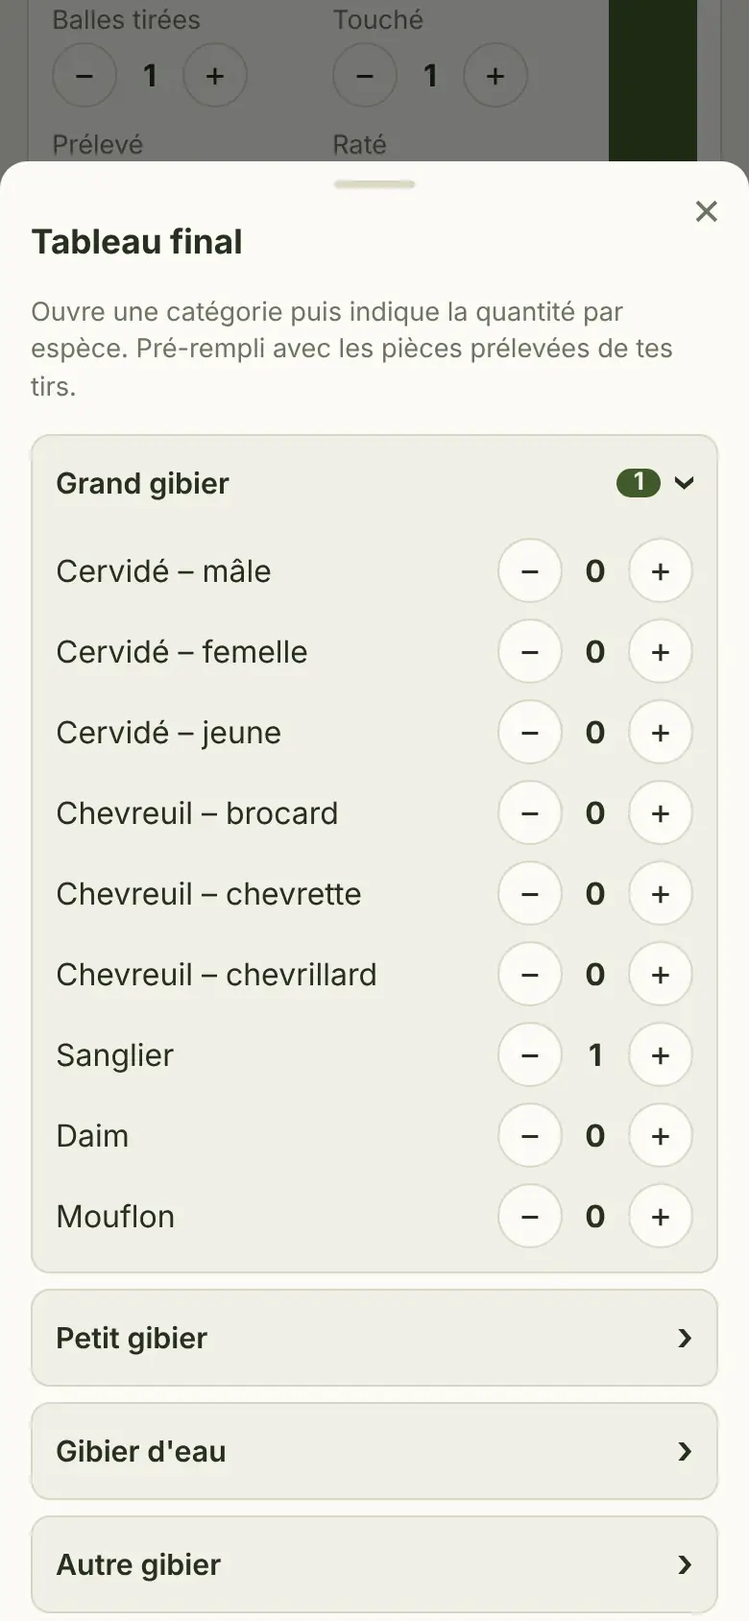
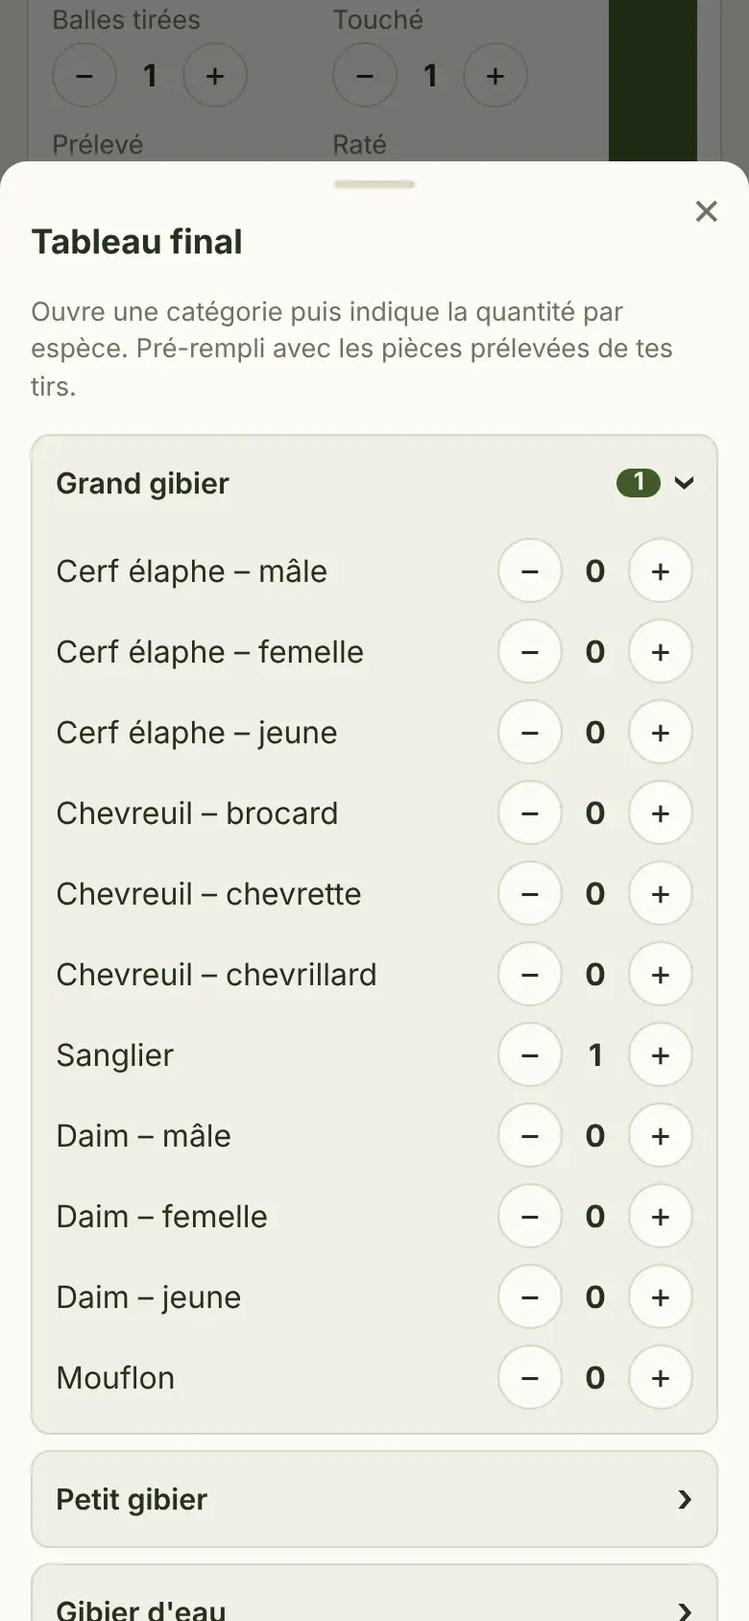
Daim mâle/femelle/jeune, « Cerf élaphe », BANG par famille (précision en fin de journée) – version 2026-10-09g (en attente de validation)
Claude-Session: https://claude.ai/code/session_0186hciEuPyU4mgRMjZZiZQe

diff --git a/index.html b/index.html
@@ -188,19 +188,20 @@ html.in-on,html.in-on body{overflow:hidden}
 <hr><button class="m" id="m-tour" style="font-weight:700;color:var(--acc)">▶ Découvre l'application</button><button class="m" id="m-ouv">Périodes d'ouverture</button><button class="m" id="m-mg">Gérer mes espèces et modes de chasse</button><button class="m" id="m-ar">Mes armes</button><button class="m" id="m-rm">Paramètres de rappels</button>
 <div style="margin-top:auto"><button id="m-fb" style="display:block;width:100%;text-align:center;border:0;border-radius:12px;background:#e8a032;color:#2a1c05;font:800 1rem system-ui;padding:14px 10px;box-shadow:0 3px 10px #0003;margin-bottom:6px">Envoyez-nous un commentaire !</button><button id="m-nl" class="m" style="text-align:center;font-weight:600;color:var(--acc);margin-bottom:4px">Être prévenu de la sortie</button><button id="m-inv" style="display:block;width:100%;text-align:center;border:2px solid var(--acc);border-radius:12px;background:none;color:var(--acc);font:700 .95rem system-ui;padding:11px 10px;margin-bottom:6px">Inviter un ami</button><hr><label>Thème</label><div class="seg" id="th"><button data-th="light">Clair</button><button data-th="dark">Sombre</button><button data-th="auto">Auto</button></div><label>Fréquence de synchronisation</label><select id="sy">
 <option value="manual">Manuelle</option><option value="15">Toutes les 15 minutes</option><option value="60">Toutes les heures</option><option value="day">Une fois par jour</option><option value="wifi">Dès que le réseau revient</option></select>
-<button class="m" id="m-sy">Synchroniser maintenant</button><button class="m" id="m-im">Importer un calendrier</button><button class="m" id="m-ex">Exporter mon calendrier</button><button class="m" id="m-bk">Sauvegarde automatique</button><p style="margin:10px 8px 0;font:.75rem system-ui;color:var(--mut)">ChasseLog bêta web · version 2026-10-09f<br>Météo : KNMI Harmonie (2 km) et ECMWF, via Open-Meteo.com</p></div></aside>
+<button class="m" id="m-sy">Synchroniser maintenant</button><button class="m" id="m-im">Importer un calendrier</button><button class="m" id="m-ex">Exporter mon calendrier</button><button class="m" id="m-bk">Sauvegarde automatique</button><p style="margin:10px 8px 0;font:.75rem system-ui;color:var(--mut)">ChasseLog bêta web · version 2026-10-09g<br>Météo : KNMI Harmonie (2 km) et ECMWF, via Open-Meteo.com</p></div></aside>
 <div id="page"><main id="app"></main></div>
 <script>
-const G={"Grand gibier":["Cervidé","Chevreuil","Sanglier","Daim","Mouflon"],
+const G={"Grand gibier":["Cerf élaphe","Chevreuil","Sanglier","Daim","Mouflon"],
 "Petit gibier":["Lièvre","Faisan","Perdrix grise","Bécasse des bois"],
 "Gibier d'eau":["Canard colvert","Bernache du Canada","Foulque macroule"],
 "Autre gibier":["Lapin de garenne","Pigeon ramier","Renard"]};
-const CLS={"Cervidé":["Mâle","Femelle","Jeune"],"Chevreuil":["Brocard","Chevrette","Chevrillard"]};
-const CL={"Cervidé":{m:"mâle",f:"femelle",j:"jeune"},"Chevreuil":{m:"brocard",f:"chevrette",j:"chevrillard"},"Faisan":{m:"coq",f:"poule"}};
-const XT={"Cervidé":["Cervidé – mâle","Cervidé – femelle","Cervidé – jeune"],"Chevreuil":["Chevreuil – brocard","Chevreuil – chevrette","Chevreuil – chevrillard"],"Faisan":["Faisan – coq","Faisan – poule"]};
+const CLS={"Cerf élaphe":["Mâle","Femelle","Jeune"],"Daim":["Mâle","Femelle","Jeune"],"Chevreuil":["Brocard","Chevrette","Chevrillard"]};
+const CL={"Cerf élaphe":{m:"mâle",f:"femelle",j:"jeune"},"Daim":{m:"mâle",f:"femelle",j:"jeune"},"Chevreuil":{m:"brocard",f:"chevrette",j:"chevrillard"},"Faisan":{m:"coq",f:"poule"}};
+const XT={"Cerf élaphe":["Cerf élaphe – mâle","Cerf élaphe – femelle","Cerf élaphe – jeune"],"Daim":["Daim – mâle","Daim – femelle","Daim – jeune"],"Chevreuil":["Chevreuil – brocard","Chevreuil – chevrette","Chevreuil – chevrillard"],"Faisan":["Faisan – coq","Faisan – poule"]};
+const COR=sp=>sp=="Cerf élaphe"||sp=="Chevreuil";
 const tname=t=>(t.sx&&CL[t.sp]&&CL[t.sp][t.sx])?t.sp+" – "+CL[t.sp][t.sx]:t.sp;
 const sxi=x=>x?`<span class="sxi ${x}">${x=="m"?"♂":"♀"}</span>`:"";
-const extra=t=>{const f=a=>(a||[]).slice(0,t.p).filter(x=>x!==""&&x!=null),w=f(t.w),c=f(t.c);return(t.sp=="Sanglier"&&w.length?" · "+w.join(", ")+" kg":"")+(c.length&&CLS[t.sp]&&t.sx=="m"?" · "+c.join(", ")+" cors":"")};
+const extra=t=>{const f=a=>(a||[]).slice(0,t.p).filter(x=>x!==""&&x!=null),w=f(t.w),c=f(t.c);return(t.sp=="Sanglier"&&w.length?" · "+w.join(", ")+" kg":"")+(c.length&&COR(t.sp)&&t.sx=="m"?" · "+c.join(", ")+" cors":"")};
 const MODES=["Battue","Approche","Affût","Poussée silencieuse","Chasse devant soi","Chasse à la passée","Chasse à la hutte","Chasse au chien d'arrêt","Chasse au terrier","Chasse à courre","Fauconnerie"];
 const MN=["Janvier","Février","Mars","Avril","Mai","Juin","Juillet","Août","Septembre","Octobre","Novembre","Décembre"];
 const UL={b:"Balles",c:"Cartouches"},UNIT=s=>(/^(Cerf|Cervid|Chevreuil|Sanglier|Daim|Mouflon|Renard)/.test(s))?"b":"c";
@@ -383,7 +384,7 @@ let BIP=null;addEventListener("beforeinstallprompt",e=>{e.preventDefault();BIP=e
  $("#in-sk").onclick=()=>{try{sessionStorage.setItem("chasselog-skipinst","1")}catch(e){}o.remove();document.documentElement.classList.remove("in-on")}})();
 
 /* ---------- visite guidée « Découvre l'application » ---------- */
-const TAPS={"mn":[30,26],"ouv":[149.5,255.5],"om":[192.2,102.9],"fab":[344,796],"title":[195,190.8],"ta":[122.6,434.6],"save":[285.5,813],"pst":[195,26],"bang":[195,793],"psok":[330.8,762.3],"sang":[71.7,172.8],"plus":[112,311.2],"ok":[195,792],"cpl":[283.1,101.5],"sx":[81.4,251],"kg":[252,456],"photo":[167,555.3],"tb":[195,696.6],"tabplus":[344,549.2],"fsave":[285.5,813],"share":[195,152.3],"stats":[46,796],"sprev":[248,75.6]};
+const TAPS={"mn":[30,26],"ouv":[149.5,297.5],"om":[192.2,102.9],"fab":[344,796],"title":[195,190.8],"ta":[122.6,434.6],"save":[285.5,813],"pst":[195,26],"bang":[195,793],"psok":[330.8,762.3],"sang":[71.7,172.8],"plus":[112,311.2],"ok":[195,792],"cpl":[283.1,101.5],"sx":[81.4,251],"kg":[252,456],"photo":[167,555.3],"tb":[195,696.6],"tabplus":[344,549.2],"fsave":[285.5,813],"share":[195,152.3],"stats":[46,796],"sprev":[248,75.6]};
 // étapes : [titre, texte, actions]. Actions : ["s",écran] afficher, ["sl",écran] défiler, ["t",bouton] toucher, ["n",note] note jaune, ["w",ms] attendre, ["r",bouton] anneau, ["i",image] image par-dessus
 const TOUR=[
  ["Consulte les périodes d'ouverture","Les dates d'ouverture et de fermeture du gibier en Wallonie, selon ton mode de chasse.",[["s","cal0"],["w",1400],["t","mn"],["s","drawer"],["w",1500],["t","ouv"],["s","ouv0"],["n","Ce qui est ouvert aujourd'hui, avec la frise de la saison"],["w",3200],["t","om"],["s","ouv1"],["n","Choisis ton mode : battue, approche et affût, chasse à vol"],["w",2800],["sl","ouv2"],["w",1500]]],
@@ -470,12 +471,12 @@ function bkCheck(){const B=BKD();if(!B.on||$("#bkb")||$("#mdb")||view!="cal")ret
  d.style.cssText="position:fixed;left:10px;right:10px;top:calc(64px + env(safe-area-inset-top,0px));z-index:45;background:var(--card);color:var(--ink);border:1px solid var(--line);border-radius:14px;padding:12px 14px;display:flex;align-items:center;gap:10px;font:600 .9rem system-ui;box-shadow:0 6px 20px #0005";
  d.innerHTML=`<span style="flex:1">Sauvegarde prévue vers ${SVC[B.svc]}<br><small style="font-weight:400;color:var(--mut)">Dernière : ${B.last?new Date(B.last).toLocaleDateString("fr-BE"):"jamais"}</small></span><button class="p" style="padding:9px 12px">Sauvegarder</button><button aria-label="Plus tard" style="border:0;background:none;color:var(--mut);font-size:1.2rem;padding:4px">✕</button>`;
  document.body.appendChild(d);const[b1,b2]=d.querySelectorAll("button");b1.onclick=async()=>{if(await doBackup(prep))d.remove()};b2.onclick=()=>{B.snooze=Date.now()+864e5;save();d.remove()}}
-const needK=t=>t.sp=="Sanglier"?"w":(CLS[t.sp]&&t.sx=="m")?"c":null,missT=t=>{const k=needK(t);if(!k||!t.p)return false;const a=(t[k]||[]).slice(0,t.p);return a.length<t.p||a.some(v=>v===""||v==null)};
+const needK=t=>t.sp=="Sanglier"?"w":(COR(t.sp)&&t.sx=="m")?"c":null,missT=t=>{if(!t.p)return false;if(CLS[t.sp]&&!t.sx)return true;const k=needK(t);if(!k)return false;const a=(t[k]||[]).slice(0,t.p);return a.length<t.p||a.some(v=>v===""||v==null)};
 function missingDet(){const td=iso(new Date()),now=new Date(),sn=S.mdSn||{};return evs().filter(e=>{if(!e.fiche||e.nh||(sn[e.id]||0)>Date.now())return false;const age=(Date.parse(td)-Date.parse(e.date))/864e5;
  if(age<0||age>14||(age==0&&now.getHours()<18))return false;return e.fiche.tirs.some(missT)}).sort((a,b)=>a.date<b.date?1:-1)}
-function mdCheck(){if(view!="cal"||$("#mdb")||$("#bkb"))return;const e=missingDet()[0];if(!e)return;const k=e.fiche.tirs.filter(missT).map(needK);
+function mdCheck(){if(view!="cal"||$("#mdb")||$("#bkb"))return;const e=missingDet()[0];if(!e)return;const k=e.fiche.tirs.filter(missT).map(t=>CLS[t.sp]&&!t.sx?"x":needK(t));
  const d=document.createElement("div");d.id="mdb";d.style.cssText="position:fixed;left:10px;right:10px;top:calc(64px + env(safe-area-inset-top,0px));z-index:45;background:#e8a032;color:#2a1c05;border-radius:14px;padding:12px 14px;display:flex;align-items:center;gap:10px;font:600 .9rem system-ui;box-shadow:0 6px 20px #0005";
- d.innerHTML=`<span style="flex:1">À compléter : ${k.includes("w")&&k.includes("c")?"poids et cors":k.includes("w")?"poids du sanglier":"nombre de cors"}<br><small style="font-weight:500">${esc(e.title)} · ${e.date.split("-").reverse().join("/")}</small></span><button style="border:0;border-radius:10px;background:#2a1c05;color:#fff;font:700 .9rem system-ui;padding:9px 12px">Compléter</button><button aria-label="Plus tard" style="border:0;background:none;color:#2a1c05;font-size:1.2rem;padding:4px">✕</button>`;
+ d.innerHTML=`<span style="flex:1">À compléter : ${[k.includes("x")?"mâle, femelle ou jeune":"",k.includes("w")?"poids du sanglier":"",k.includes("c")?"nombre de cors":""].filter(Boolean).join(" · ")}<br><small style="font-weight:500">${esc(e.title)} · ${e.date.split("-").reverse().join("/")}</small></span><button style="border:0;border-radius:10px;background:#2a1c05;color:#fff;font:700 .9rem system-ui;padding:9px 12px">Compléter</button><button aria-label="Plus tard" style="border:0;background:none;color:#2a1c05;font-size:1.2rem;padding:4px">✕</button>`;
  document.body.appendChild(d);const[b1,b2]=d.querySelectorAll("button");
  b1.onclick=()=>{d.remove();openFiche(e.id);fd.tirs.forEach(t=>{if(missT(t))t.ok=false});render()};
  b2.onclick=()=>{S.mdSn=S.mdSn||{};S.mdSn[e.id]=Date.now()+864e5;save();d.remove()}}
@@ -561,13 +562,13 @@ const curPoste=e=>e&&e.postes&&e.postes.length?e.postes[e.postes.length-1].n:nul
 const todayPoste=()=>{let best=null;todayEvs().forEach(e=>(e.postes||[]).forEach((x,i)=>{const k=x.ts||i;if(!best||k>=best.k)best={k,n:x.n}}));return best?best.n:null};
 function quickShot(id){fe=id;fd=JSON.parse(JSON.stringify(S.ev[id].fiche||{tirs:[],photos:[],notes:"",tab:null,tabPhotos:[]}));fd.tabPhotos=fd.tabPhotos||[];fdClean=fkey();pickCtx={mode:"quick"};go("pick")}
 function commonSp(){const vis=Object.values(visSp()).flat(),cnt={};evs().forEach(e=>e.fiche&&e.fiche.tirs.forEach(t=>cnt[t.sp]=(cnt[t.sp]||0)+1));
- const used=Object.keys(cnt).filter(x=>vis.includes(x)).sort((a,b)=>cnt[b]-cnt[a]),def=["Sanglier","Chevreuil","Cervidé","Faisan","Lièvre","Canard colvert","Renard","Pigeon ramier","Bécasse des bois"].filter(x=>vis.includes(x));
+ const used=Object.keys(cnt).filter(x=>vis.includes(x)).sort((a,b)=>cnt[b]-cnt[a]),def=["Sanglier","Chevreuil","Cerf élaphe","Faisan","Lièvre","Canard colvert","Renard","Pigeon ramier","Bécasse des bois"].filter(x=>vis.includes(x));
  return[...new Set([...used,...def])].slice(0,6)}
 function rPick(){const e=S.ev[fe],tile=x=>`<button class="pk" data-pk="${esc(x)}">${sil(x,64)||'<span style="font-size:1.8rem;line-height:48px">🎯</span>'}<span>${esc(x)}</span></button>`;
  $("#app").innerHTML=`${BKB}<h1 style="margin-top:4px;padding-left:48px">Quel gibier ?</h1><p class="mut sans" style="margin-top:-6px;padding-left:48px">${e?esc(e.title):""}</p>
  <h2>Les plus courants</h2><div class="pkg">${commonSp().map(tile).join("")}</div>${Object.entries(visSp()).map(([g,a])=>`<h2>${esc(g)}</h2><div class="pkg">${a.map(tile).join("")}</div>`).join("")}<div style="height:40px"></div>`;
  $("#bk2").onclick=()=>{if(pickCtx&&pickCtx.mode=="quick"){pickCtx=null;go("cal")}else go("fiche")};
- document.querySelectorAll("[data-pk]").forEach(b=>b.onclick=()=>{const sp=b.dataset.pk,t={id:"k"+Date.now(),sp,u:UNIT(sp),n:0,h:0,p:0,m:0,loc:null,ok:false,sx:CLS[sp]?"m":null,w:[],c:[],gun:gunOf(S.lastGun)?S.lastGun:null,poste:curPoste(S.ev[fe])};
+ document.querySelectorAll("[data-pk]").forEach(b=>b.onclick=()=>{const sp=b.dataset.pk,t={id:"k"+Date.now(),sp,u:UNIT(sp),n:0,h:0,p:0,m:0,loc:null,ok:false,sx:null,w:[],c:[],gun:gunOf(S.lastGun)?S.lastGun:null,poste:curPoste(S.ev[fe])};
   fd.tirs.unshift(t);if(pickCtx&&pickCtx.mode=="quick")quickTid=t.id;pickCtx=null;go("fiche")})}
 function posteModal(id){const e=S.ev[id];e.postes=e.postes||[];
  const draw=()=>{modal(`<h2>Numéro de poste</h2><p class="mut sans" style="margin-top:-4px">${esc(e.title)}</p>
@@ -612,7 +613,7 @@ async function shareDay(id){const e=S.ev[id],f=e.fiche,a=agg([e]),W=1080,c=docum
 const CC="Uniquement sur les territoires des conseils cynégétiques agréés.";
 const OUV=[
  ["Grand gibier",[
-  {sp:"Cerf",img:"Cervidé – mâle",n:"Soumis au plan de tir.",rows:[
+  {sp:"Cerf",img:"Cerf élaphe – mâle",n:"Soumis au plan de tir.",rows:[
    {l:"Grands cerfs boisés",aa:[["09-21","12-31"]],tir:[["10-01","12-31"]],n:"Uniquement conseils cynégétiques agréés et Chasse royale de Ciergnon. Interdit ailleurs."},
    {l:"Petits cerfs",aa:[["09-21","01-31"]],tir:[["10-01","01-31"]],n:"Uniquement conseils cynégétiques agréés et Chasse royale de Ciergnon. Interdit ailleurs."},
    {l:"Biches, bichettes et faons",aa:[["09-21","01-31"]],tir:[["10-01","01-31"]]}]},
@@ -752,7 +753,7 @@ function rArmes(){S.guns=S.guns||[];const cat=ag.type?ARMES[ag.type]:null,brandO
 /* ---------- rappels ---------- */
 const RM=()=>{if(!S.rem)S.rem={};const r=S.rem;if(r.sleep===undefined)r.sleep=false;if(!r.time)r.time="20:00";if(r.auto===undefined)r.auto=false;return r};
 const dueOf=e=>new Date(e.date+"T"+e.rem+":00").getTime();
-const APP_V="2026-10-09f",APP_URL="https://chasselog-coder.github.io/ChasseLog/";
+const APP_V="2026-10-09g",APP_URL="https://chasselog-coder.github.io/ChasseLog/";
 const REM_ON=false;
 async function syncRem(){if(!REM_ON)return;try{const RMs=RM(),now=Date.now();let old=[];try{old=JSON.parse(await DB.get("_rem")||"[]")}catch(x){}const fired=new Set(old.filter(x=>x.fired).map(x=>x.id+"|"+x.due));
  const list=RMs.sleep?[]:evs().filter(e=>e.rem&&!e.fiche&&!e.remDone&&now-dueOf(e)<36*36e5).map(e=>({id:e.id,title:e.title,date:e.date,due:dueOf(e),fired:fired.has(e.id+"|"+dueOf(e))}));await DB.put("_rem",JSON.stringify(list));
@@ -794,7 +795,7 @@ $("#m-im").onclick=()=>{shut();modal(`<h2>Importer un calendrier</h2><p class="m
 $("#m-ex").onclick=()=>{shut();modal(`<h2>Exporter mon calendrier</h2><button class="p li" id="x-i">Calendrier (.ics)</button><button class="s li" id="x-j">Sauvegarde complète (.json, avec fiches et photos)</button>`);
  $("#x-i").onclick=()=>{const v=evs().map(e=>["BEGIN:VEVENT","UID:"+e.id+"@carnet","DTSTART;VALUE=DATE:"+e.date.replace(/-/g,""),"SUMMARY:"+e.title.replace(/[,;]/g," "),"LOCATION:"+(e.place.name||"").replace(/[,;]/g," ")].concat(e.place.lat!=null?["GEO:"+e.place.lat+";"+e.place.lng]:[],["END:VEVENT"]).join("\r\n"));dl("chasselog.ics","text/calendar","BEGIN:VCALENDAR\r\nVERSION:2.0\r\nPRODID:-//Carnet de chasse//FR\r\n"+v.join("\r\n")+"\r\nEND:VCALENDAR");closeM()};
  $("#x-j").onclick=async()=>{dl("chasselog.json","application/json",await exportJSON());closeM()}};
-$("#m-mg").onclick=()=>{shut();const ck=(n,h,k)=>`<label class="ck"><input type="checkbox" data-${k}="${esc(n)}" ${S[h].includes(n)?"":"checked"}>${esc(n=="Cervidé"?"Cervidés":n)}</label>`;
+$("#m-mg").onclick=()=>{shut();const ck=(n,h,k)=>`<label class="ck"><input type="checkbox" data-${k}="${esc(n)}" ${S[h].includes(n)?"":"checked"}>${esc(n)}</label>`;
  modal(`<h2>Mes modes de chasse et espèces</h2><p class="mut sans">Décoche ce que tu ne chasses pas : ces choix disparaissent des listes d'encodage.</p><h3>Modes de chasse</h3>${MODES.map(m=>ck(m,"hm","m")).join("")}
  ${Object.entries(Object.assign({},G,S.custom.length?{"Mes espèces":S.custom}:{})).map(([g,a])=>`<h3>${g}</h3>${a.map(s=>ck(s,"hs","s")).join("")}`).join("")}
  <h3>Ajouter une espèce</h3><div class="row"><input id="ns" placeholder="Nom de l'espèce"><button class="s" id="na" style="flex:0 0 90px">Ajouter</button></div>`);
@@ -966,13 +967,13 @@ function backFiche(){if(quickTid){modal(`<h2>Abandonner ce tir ?</h2><p class="s
  $("#q-y").onclick=()=>{closeM();saveFiche()};$("#q-n").onclick=()=>{closeM();go(to)}}
 function rFiche(){const e=S.ev[fe],all=visSp(),nt=fd.tab?Object.values(fd.tab).reduce((a,b)=>a+b,0):0,Q=quickTid&&fd.tirs.find(t=>t.id==quickTid);
  if(quickTid&&!Q){quickTid=null;setTimeout(()=>go("cal"));return}
- const detail=t=>{const k=t.sp=="Sanglier"?"w":(CLS[t.sp]&&t.sx=="m")?"c":null;if(!k||!t.p)return"";t[k]=t[k]||[];
+ const detail=t=>{const k=t.sp=="Sanglier"?"w":(COR(t.sp)&&t.sx=="m")?"c":null;if(!k||!t.p)return"";t[k]=t[k]||[];
   return `<div class="det"><span class="mut sans">${k=="w"?"Poids (kg)":"Nombre de cors"}</span>${Array.from({length:t.p},(_,i)=>`<label class="dl sans"><span>${k=="w"?"Sanglier":"Mâle"} ${i+1}</span><input type="number" min="0" step="${k=="w"?"0.5":"1"}" inputmode="${k=="w"?"decimal":"numeric"}" data-dk="${t.id}|${k}|${i}" value="${esc(t[k][i]??"")}" placeholder="${k=="w"?"kg":"cors"}"></label>`).join("")}</div>`};
  const card=t=>{const nm=tname(t),isCl=!!CLS[t.sp],qk=quickTid==t.id;
   if(t.ok!==false)return `<div class="card cd sans" data-o="${t.id}">${sil(nm,44)}<div style="flex:1;min-width:0"><b>${esc(nm)}</b> ${isCl?"":sxi(t.sx)}<br><span class="mut">Prélevé ${t.p} · Raté ${t.m} · Touché ${t.h} · ${t.n} ${UL[t.u].toLowerCase()}${esc(extra(t))}</span></div><span class="vk" aria-hidden="true">✓</span></div>`;
   const pick=isCl?`<div class="seg" style="margin-top:8px">${CLS[t.sp].map((l,i)=>`<button data-sx="${t.id}:${"mfj"[i]}" class="${t.sx=="mfj"[i]?"on":""}">${l}</button>`).join("")}</div>`:`<div class="row sans" style="gap:6px;margin-top:8px;justify-content:flex-start"><span class="mut" style="flex:0 0 auto">Sexe</span><button class="sx m${t.sx=="m"?" on":""}" data-sx="${t.id}:m" aria-label="Mâle" style="flex:0 0 auto">♂</button><button class="sx f${t.sx=="f"?" on":""}" data-sx="${t.id}:f" aria-label="Femelle" style="flex:0 0 auto">♀</button></div>`;
   return `<div class="card tc"><div class="tcm"><div class="row sans" style="gap:8px"><span style="flex:0 0 auto">${sil(nm,40)}</span><b>${esc(t.sp)}</b><button class="s" data-u="${t.id}" style="flex:0 0 auto">${UL[t.u]} ⇄</button><button class="d" data-x="${t.id}" style="flex:0 0 auto">${qk?"Annuler":"Retirer"}</button></div>${pick}
-  <div class="g4">${[["n",UL[t.u]+" tirées"],["h","Touché"],["p","Prélevé"],["m","Raté"]].map(([k,lb])=>`<div><span class="mut sans">${lb}</span><div class="st"><button data-t="${t.id}" data-k="${k}" data-n="-1">−</button><b>${t[k]}</b><button data-t="${t.id}" data-k="${k}" data-n="1">+</button></div></div>`).join("")}</div>${qk?(t.p&&(t.sp=="Sanglier"||(CLS[t.sp]&&t.sx=="m"))?`<p class="mut sans" style="margin:8px 0 0;font-size:.85rem">${t.sp=="Sanglier"?"Le poids":"Le nombre de cors"} se complète plus tard dans la fiche.</p>`:""):detail(t)}
+  <div class="g4">${[["n",UL[t.u]+" tirées"],["h","Touché"],["p","Prélevé"],["m","Raté"]].map(([k,lb])=>`<div><span class="mut sans">${lb}</span><div class="st"><button data-t="${t.id}" data-k="${k}" data-n="-1">−</button><b>${t[k]}</b><button data-t="${t.id}" data-k="${k}" data-n="1">+</button></div></div>`).join("")}</div>${qk?(t.p&&(t.sp=="Sanglier"||(COR(t.sp)&&t.sx=="m"))?`<p class="mut sans" style="margin:8px 0 0;font-size:.85rem">${t.sp=="Sanglier"?"Le poids":"Le nombre de cors"} se complète plus tard dans la fiche.</p>`:""):detail(t)}
   ${(S.guns||[]).length?`<label class="sans" style="display:flex;align-items:center;gap:8px;margin-top:10px">${gunIc(16,"carabine")}<select data-gn="${t.id}" style="flex:1;margin:0"><option value="">Arme utilisée…</option>${S.guns.map(g=>`<option value="${g.id}" ${t.gun==g.id?"selected":""}>${esc(gl(g))}</option>`).join("")}</select></label>`:`<p class="mut sans" style="margin:10px 0 0">${gunIc(14)} Ajoute tes armes via le menu pour les choisir ici.</p>`}${qk?"":`<div class="ph">${(t.ph||[]).map((x,i)=>`<div><img data-pid="${x}" alt="Photo de l'animal"><button class="d" data-rtp="${t.id}|${i}">Retirer</button></div>`).join("")}</div><label class="s sans" style="display:block;text-align:center;border:1px solid var(--line);border-radius:8px;padding:9px;margin-top:8px;color:var(--ink)">📷 Photo de l'animal<input type="file" accept="image/*" data-tph="${t.id}" hidden></label>`}
   <button class="s sans" data-gps="${t.id}" style="width:100%;margin-top:10px;text-align:left;${t.loc&&t.loc.gps?"border-color:var(--acc);color:var(--acc);font-weight:600":""}">📍 ${t.loc&&t.loc.gps?`Position du tir enregistrée ${t.loc.acc!=null?`(± ${Math.round(t.loc.acc)} m)`:"(ajustée sur la carte)"} · modifier`:"Enregistrer ma position (lieu du tir)"}</button>
   ${qk?"":`<button class="s sans" data-l="${t.id}" style="width:100%;margin-top:6px;text-align:left">🗺 ${t.loc?(t.loc.gps?"Lieu du tir":"Lieu du tir")+" : "+esc(lieu(t.loc)):"Lieu de RDV : "+esc(lieu(e.place))} · choisir sur la carte</button>`}</div><button class="vb" data-v="${t.id}" aria-label="Valider ce tir">✓</button></div>`};
@@ -1053,14 +1054,15 @@ const renard=`<g>${legs([17,21,37,41],34,44.5,"bk",2.8)}<ellipse cx="10" cy="31"
 const rongeur=(c,s)=>`<g transform="translate(32 44.5) scale(${s}) translate(-32 -44.5)"><path d="M11 37Q2 39 3 31Q4 27 8 29" fill="none" stroke="#33281e" stroke-width="2" stroke-linecap="round"/>${legs([20,40],38,44.5,"dk",4)}<ellipse cx="27" cy="33" rx="17.5" ry="10" ${Fl(c)}/><ellipse cx="45" cy="32" rx="8" ry="6" ${Fl(c)}/><circle cx="52.5" cy="33.5" r="1.7" fill="#1b1410"/><rect x="50.5" y="35.5" width="2.4" height="3" rx=".8" fill="#f09030"/><circle cx="43" cy="26.5" r="2.2" ${Fl(c)}/>${Ey(48.5,29.5,.9)}<path d="M52 33L58 31M52 34.5L58 35" stroke="#f5f0e4" stroke-width=".5"/></g>`;
 const ART={cerf:deer({c:"br",a:2,s:1}),biche:deer({c:"br",s:.93}),bichette:deer({c:"br",s:.8}),faon:deer({c:"br",s:.62,sp:1}),brocard:deer({c:"tn",a:1,r:1,s:.78}),chevrette:deer({c:"tn",r:1,s:.74}),chevrillard:deer({c:"tn",r:1,s:.55,sp:1}),daim:deer({c:"tn",a:3,sp:1,s:.88}),mouflon,sanglier:boar,lievre:hare(10,1),lapin:hare(5.5,.78),fcoq,fpoule,perdrix,becasse,pigeon,colvert:duck("gn","gy","br","bl"),chipeau:duck("g2","gy","bk","wh"),siffleur:duck("rs","gy","pk","gy"),souchet:duck("gn","rs","wh","bl"),pilet:duck("br","gy","wh","gn"),sarcelle:duck("rs","gy","tn","gn"),fuligule:duck("rs","bk","gy","gy"),oie,corbeau,pie,geai,renard,ragondin:rongeur("dk",1),rat:rongeur("bk",.7)};
 function silType(s){const n=s.toLowerCase();
- if(n=="cervidé"||n=="cervide")return "cervide";if(n=="chevreuil")return "chevreuil";
+ if(n=="cerf élaphe"||n=="cervidé"||n=="cervide")return "cervide";
+ if(n.startsWith("daim"))return /femelle|daine/.test(n)?"daimf":/jeune|faon/.test(n)?"daimj":/mâle|male/.test(n)?"daimm":"daim";if(n=="chevreuil")return "chevreuil";
  if(n.startsWith("mouflon"))return /femelle|brebis/.test(n)?"mouflonf":/agneau|jeune/.test(n)?"agneau":"mouflon";
  if(n.startsWith("cerf")||n.startsWith("cervid"))return /bichette/.test(n)?"bichette":/femelle|biche/.test(n)?"biche":/jeune|faon/.test(n)?"faon":"cerf";
  if(n.startsWith("chevreuil"))return /chevrette|femelle/.test(n)?"chevrette":/chevrillard|jeune/.test(n)?"chevrillard":"brocard";
  if(n.startsWith("faisan"))return /poule/.test(n)?"fpoule":"fcoq";
  const m=[["sanglier","sanglier"],["daim","daim"],["mouflon","mouflon"],["lièvre","lievre"],["lapin","lapin"],["perdrix","perdrix"],["bécasse","becasse"],["pigeon","pigeon"],["canard colvert","colvert"],["chipeau","chipeau"],["siffleur","siffleur"],["souchet","souchet"],["pilet","pilet"],["sarcelle","sarcelle"],["fuligule","fuligule"],["oie","oie"],["bernache","oie"],["ouette","oie"],["renard","renard"],["foulque","foulque"],["corneille","corbeau"],["corbeau","corbeau"],["pie ","pie"],["geai","geai"],["ragondin","ragondin"],["rat musqué","rat"]];
  for(const[k,v]of m)if(n.includes(k))return v;return null}
-const PIC=new Set("cerf biche faon bichette brocard chevrette chevrillard cervide chevreuil daim mouflon mouflonf agneau sanglier lievre lapin fcoq fpoule perdrix becasse oie colvert foulque pigeon renard".split(" "));
+const PIC=new Set("cerf biche faon bichette brocard chevrette chevrillard cervide chevreuil daim daimm daimf daimj mouflon mouflonf agneau sanglier lievre lapin fcoq fpoule perdrix becasse oie colvert foulque pigeon renard".split(" "));
 const sil=(s,w=56)=>{const t=silType(s);if(t&&PIC.has(t))return `<img src="animals/${t}.webp" width="${w}" height="${Math.round(w*.75)}" alt="" aria-hidden="true" decoding="async" style="flex:0 0 auto;object-fit:contain;width:${w}px;height:${Math.round(w*.75)}px">`;if(t=="foulque")return sil("Fuligule",w);return t?`<svg viewBox="0 0 64 48" width="${w}" height="${Math.round(w*.75)}" aria-hidden="true" style="flex:0 0 auto">${SH}${ART[t]}</svg>`:""};
 const ICO={b:'<svg viewBox="0 0 32 32"><g transform="translate(1.6 1.8) scale(.9) rotate(18 16 16)"><path d="M16 2C20 6 22.5 11 22.5 16.5V22H9.5V16.5C9.5 11 12 6 16 2Z" fill="url(#lcu)"/><path d="M12 9Q13 6 15.5 4" stroke="#fff" stroke-width="1.2" fill="none" stroke-linecap="round" opacity=".55"/><rect x="9.5" y="22" width="13" height="6" rx="1" fill="url(#lbr)"/><rect x="9.5" y="22" width="13" height="1.2" fill="#5a3a10" opacity=".5"/><rect x="8.6" y="27.5" width="14.8" height="2.2" rx="1" fill="url(#lbr)"/></g></svg>',
 c:'<svg viewBox="0 0 32 32"><g transform="translate(1.6 1.8) scale(.9) rotate(18 16 16)"><rect x="9" y="3" width="14" height="19" rx="2.2" fill="url(#lsh)"/><path d="M9 4.8Q16 7 23 4.8" stroke="#4a0808" stroke-width="1.2" fill="none" opacity=".6"/><path d="M12 7V20" stroke="#fff" stroke-width="1.1" opacity=".35" stroke-linecap="round"/><rect x="8.4" y="21" width="15.2" height="7" rx="1.4" fill="url(#lbr)"/><rect x="8" y="27.4" width="16" height="2.4" rx="1.1" fill="url(#lbr)"/><circle cx="16" cy="24.5" r="1.6" fill="#7a5714"/></g></svg>',
@@ -1086,7 +1088,7 @@ function rSum(){const e=S.ev[fe],f=e.fiche,a=agg([e]),cnt={};
  $("#bk").onclick=()=>go(vst.length?vst[vst.length-1]:"cal");$("#md").onclick=()=>openFiche(fe);
  if($("#sh-ph"))$("#sh-ph").onclick=()=>modal(`<h2>Photos de la journée</h2><div class="ph">${f.photos.map(p=>`<img data-pid="${p}" alt="Photo de la journée">`).join("")}</div>`);
  document.querySelectorAll("[data-rs]").forEach(b=>b.onclick=()=>{const k=b.dataset.rs;let ts=f.tirs.filter(t=>t.p&&(tname(t)==k||k.startsWith(t.sp)));
-  const one=t=>{const u=UL[t.u].toLowerCase(),p=t.n?Math.round(t.h/t.n*100):0,ex=t.sp=="Sanglier"?(t.w||[]).slice(0,t.p).filter(x=>x!==""&&x!=null).map(x=>x+" kg"):(CLS[t.sp]&&t.sx=="m")?(t.c||[]).slice(0,t.p).filter(x=>x!==""&&x!=null).map(x=>x+" cors"):[];
+  const one=t=>{const u=UL[t.u].toLowerCase(),p=t.n?Math.round(t.h/t.n*100):0,ex=t.sp=="Sanglier"?(t.w||[]).slice(0,t.p).filter(x=>x!==""&&x!=null).map(x=>x+" kg"):(COR(t.sp)&&t.sx=="m")?(t.c||[]).slice(0,t.p).filter(x=>x!==""&&x!=null).map(x=>x+" cors"):[];
    return `<div class="card sans"><div class="row" style="gap:10px;justify-content:flex-start">${sil(tname(t),48)}<div><b>${esc(tname(t))}</b> ${CLS[t.sp]?"":sxi(t.sx)}</div></div>
    <div class="sr"><span class="lb">${ic(t.u,26)}${UL[t.u]} tirées</span><b>${t.n}</b></div><div class="sr"><span class="lb">${UL[t.u]} ayant touché</span><b>${t.h}</b></div>
    ${t.n?`<div class="sr"><span class="lb">${ic("t",26)}Précision</span><span style="display:flex;align-items:center;gap:8px">${gauge(p)}<b>${p}%</b></span></div>`:""}
@@ -1142,7 +1144,7 @@ function rStats(){const withF=evs().filter(e=>e.fiche),seasons=[...new Set([seas
  a.T.forEach(t=>{if(t.p){const k=tname(t);bySp[k]=(bySp[k]||0)+t.p}});
  L.forEach(e=>{const k=place(e);bySec[k]=(bySec[k]||0)+pt(e);cnt[k]=(cnt[k]||0)+1});
  withF.forEach(e=>{const k=season(e.date);bySea[k]=(bySea[k]||0)+pt(e)});
- const mx=(k,sp)=>{let m=0;a.T.forEach(t=>{if(t.sp==sp&&(k=="w"||t.sx=="m"))(t[k]||[]).slice(0,t.p).forEach(v=>{if(+v>m)m=+v})});return m},hw=mx("w","Sanglier"),hc=mx("c","Cervidé"),hb=mx("c","Chevreuil");
+ const mx=(k,sp)=>{let m=0;a.T.forEach(t=>{if(t.sp==sp&&(k=="w"||t.sx=="m"))(t[k]||[]).slice(0,t.p).forEach(v=>{if(+v>m)m=+v})});return m},hw=mx("w","Sanglier"),hc=mx("c","Cerf élaphe"),hb=mx("c","Chevreuil");
  const gb=(n,h,u,lab)=>n?`<div class="sc2"><div class="lb" style="justify-content:center">${ic(u,26)}<span style="font:600 .9rem system-ui;color:var(--ink)">${lab}</span></div>${gauge(Math.round(h/n*100)).replace('width="60" height="36"','width="110" height="66"')}<b>${Math.round(h/n*100)}%</b><span>${n} tirées · ${h} touchées</span></div>`:"";
  const GS={};a.T.forEach(t=>{const k=gunOf(t.gun)?t.gun:"_";const g=GS[k]=GS[k]||{n:0,h:0,p:0,m:0,u:{},days:new Set()};g.n+=t.n;g.h+=t.h;g.p+=t.p;g.m+=t.m;g.u[t.u]=1});
  L.forEach(e=>e.fiche.tirs.forEach(t=>{const k=gunOf(t.gun)?t.gun:"_";if(GS[k]&&(t.n||t.p||t.m))GS[k].days.add(e.id)}));
@@ -1160,7 +1162,7 @@ function rStats(){const withF=evs().filter(e=>e.fiche),seasons=[...new Set([seas
  <div class="kp" style="margin-top:8px;grid-template-columns:1fr 1fr"><button class="sc2" data-kp="p"><b>${a.p}</b><span>prélèvements</span><i class="chev">›</i></button><button class="sc2" data-kp="r"><b>${a.m}</b><span>ratés</span><i class="chev">›</i></button></div>
  ${a.bn||a.cn?`<h2>Précision</h2><div class="pg2">${gb(a.bn,a.bh,"b","Balles")}${gb(a.cn,a.ch,"c","Cartouches")}</div>`:""}
  ${Object.keys(bySp).length?`<h2 id="tbc">Tableau de chasse</h2><div class="tls">${Object.entries(bySp).sort((x,y)=>y[1]-x[1]).map(([k,v])=>`<button class="tl" data-sp="${esc(k)}"><div class="sv">${sil(k,64)}<b>× ${v}</b></div>${esc(k)}</button>`).join("")}</div><p class="mut sans">Touche une espèce pour voir le détail.</p>`:""}
- ${hw||hc||hb?`<h2>Records</h2><div class="kp">${hw?`<div class="sc2">${sil("Sanglier",56)}<b>${hw} kg</b><span>plus lourd sanglier</span></div>`:""}${hc?`<div class="sc2">${sil("Cervidé – mâle",56)}<b>${hc}</b><span>cors max (cervidé)</span></div>`:""}${hb?`<div class="sc2">${sil("Chevreuil – brocard",56)}<b>${hb}</b><span>cors max (brocard)</span></div>`:""}</div>`:""}
+ ${hw||hc||hb?`<h2>Records</h2><div class="kp">${hw?`<div class="sc2">${sil("Sanglier",56)}<b>${hw} kg</b><span>plus lourd sanglier</span></div>`:""}${hc?`<div class="sc2">${sil("Cerf élaphe – mâle",56)}<b>${hc}</b><span>cors max (cerf)</span></div>`:""}${hb?`<div class="sc2">${sil("Chevreuil – brocard",56)}<b>${hb}</b><span>cors max (brocard)</span></div>`:""}</div>`:""}
  ${lucky?`<h2>Poste porte-bonheur</h2><div class="card sans" style="text-align:center">Ton numéro de poste porte-bonheur est le <b style="font-size:1.5rem;color:var(--acc)">${esc(lucky[0])}</b><br><span class="mut">${lucky[1].p} prélèvement${lucky[1].p>1?"s":""} · ${lucky[1].d.size} journée${lucky[1].d.size>1?"s":""} à ce poste</span></div>`:""}
  ${gunStats?`<h2>Par arme</h2>${gunStats}`:""}
  ${shotSec(L)}
@@ -1175,17 +1177,17 @@ function rStats(){const withF=evs().filter(e=>e.fiche),seasons=[...new Set([seas
  document.querySelectorAll("[data-sea]").forEach(b=>b.onclick=()=>{seasonF=seasonF==b.dataset.sea?"all":b.dataset.sea;render()});
  document.querySelectorAll("[data-sp]").forEach(b=>b.onclick=()=>{const k=b.dataset.sp,rows=[],ws=[],cs=[];let tot=0;
   L.forEach(e=>{const ts=e.fiche.tirs.filter(t=>tname(t)==k&&t.p);if(!ts.length)return;const q=ts.reduce((x,t)=>x+t.p,0);tot+=q;
-   ts.forEach(t=>{(t.w||[]).slice(0,t.p).forEach(v=>{if(v!==""&&v!=null)ws.push(+v)});if(CLS[t.sp]&&t.sx=="m")(t.c||[]).slice(0,t.p).forEach(v=>{if(v!==""&&v!=null)cs.push(+v)})});
+   ts.forEach(t=>{(t.w||[]).slice(0,t.p).forEach(v=>{if(v!==""&&v!=null)ws.push(+v)});if(COR(t.sp)&&t.sx=="m")(t.c||[]).slice(0,t.p).forEach(v=>{if(v!==""&&v!=null)cs.push(+v)})});
    rows.push({e,txt:q+" prélèvement"+(q>1?"s":"")+esc(ts.map(extra).join(""))})});
   const av=x=>(x.reduce((u,v)=>u+v,0)/x.length).toFixed(1);
   drill(`${sil(k,56)}<span>${esc(k)}</span>`,`<div class="kp" style="margin-bottom:10px"><div class="sc2"><b>${tot}</b><span>prélèvements</span></div><div class="sc2"><b>${rows.length}</b><span>journées</span></div>${ws.length?`<div class="sc2"><b>${av(ws)}</b><span>kg en moyenne</span></div>`:cs.length?`<div class="sc2"><b>${av(cs)}</b><span>cors en moyenne</span></div>`:""}</div>`,rows)});
  document.querySelectorAll("[data-pl]").forEach(b=>b.onclick=()=>{const k=b.dataset.pl,es=L.filter(e=>place(e)==k);
   drill(`<span>📍 ${esc(k)}</span>`,`<div class="kp" style="margin-bottom:10px"><div class="sc2"><b>${es.length}</b><span>journées</span></div><div class="sc2"><b>${bySec[k]}</b><span>prélèvements</span></div></div>`,es.map(e=>({e,txt:pt(e)+" prélèvement"+(pt(e)>1?"s":"")})))})}
-function migrate(){const OLD="Cerf élaphe",mp={cerf:"m",biche:"f",bichette:"j",faon:"j",brocard:"m",chevrette:"f",chevrillard:"j",coq:"m",poule:"f"},tn={cerf:"mâle",biche:"femelle",bichette:"jeune",faon:"jeune"};
- S.hs=(S.hs||[]).map(x=>x==OLD?"Cervidé":x);
+function migrate(){const NEW="Cerf élaphe",mp={cerf:"m",biche:"f",bichette:"j",faon:"j",brocard:"m",chevrette:"f",chevrillard:"j",coq:"m",poule:"f","mâle":"m",femelle:"f",jeune:"j"},tn={cerf:"mâle",biche:"femelle",bichette:"jeune",faon:"jeune"};
+ S.hs=(S.hs||[]).map(x=>x=="Cerv"+"idé"?NEW:x);
  evs().forEach(e=>{const f=e.fiche;if(!f)return;
-  (f.tirs||[]).forEach(t=>{const m=String(t.sp).match(/^(Cerf élaphe|Cervidé|Chevreuil|Faisan) – (.+)$/);if(m){t.sp=m[1]==OLD?"Cervidé":m[1];t.sx=mp[m[2]]||t.sx||null}else if(t.sp==OLD)t.sp="Cervidé"});
-  if(f.tab){const n={};Object.entries(f.tab).forEach(([k,v])=>{const m=k.match(/^(?:Cerf élaphe|Cervidé)(?: – (.+))?$/);if(m)k="Cervidé"+(m[1]?" – "+(tn[m[1]]||m[1]):"");n[k]=(n[k]||0)+v});f.tab=n}});save()}
+  (f.tirs||[]).forEach(t=>{const m=String(t.sp).match(/^(Cerf élaphe|Cerv[i]dé|Chevreuil|Faisan|Daim) – (.+)$/);if(m){t.sp=/^Cerv/.test(m[1])?NEW:m[1];t.sx=mp[m[2]]||t.sx||null}else if(/^Cerv[i]dé$/.test(t.sp))t.sp=NEW});
+  if(f.tab){const n={};Object.entries(f.tab).forEach(([k,v])=>{const m=k.match(/^(?:Cerf élaphe|Cerv[i]dé)(?: – (.+))?$/);if(m)k=NEW+(m[1]?" – "+(tn[m[1]]||m[1]):"");n[k]=(n[k]||0)+v});f.tab=n}});save()}
 applyTheme();migrate();
 go("cal");
 migratePhotos().then(c=>{if(c)render()}).catch(()=>{});

diff --git a/sw.js b/sw.js
@@ -1,13 +1,13 @@
 // Service worker : met l'application en cache pour qu'elle fonctionne sans connexion.
 // Les fonds de carte (OpenStreetMap) ne sont volontairement PAS mis en cache.
-const V = "carnet-v24";
+const V = "carnet-v25";
 const FILES = [
   "./", "index.html", "manifest.webmanifest",
   "icons/icon-192.png", "icons/icon-512.png", "icons/maskable-512.png", "icons/apple-touch-icon.png",
   "lib/leaflet/leaflet.js", "lib/leaflet/leaflet.css",
   "lib/leaflet/images/marker-icon.png", "lib/leaflet/images/marker-icon-2x.png",
   "lib/leaflet/images/marker-shadow.png", "lib/leaflet/images/layers.png", "lib/leaflet/images/layers-2x.png",
-  "animals/agneau.webp", "animals/becasse.webp", "animals/biche.webp", "animals/bichette.webp", "animals/brocard.webp", "animals/cerf.webp", "animals/cervide.webp", "animals/chevrette.webp", "animals/chevreuil.webp", "animals/chevrillard.webp", "animals/colvert.webp", "animals/daim.webp", "animals/faon.webp", "animals/fcoq.webp", "animals/foulque.webp", "animals/fpoule.webp", "animals/lapin.webp", "animals/lievre.webp", "animals/mouflon.webp", "animals/mouflonf.webp", "animals/oie.webp", "animals/perdrix.webp", "animals/pigeon.webp", "animals/renard.webp", "animals/sanglier.webp"
+  "animals/agneau.webp", "animals/becasse.webp", "animals/biche.webp", "animals/bichette.webp", "animals/brocard.webp", "animals/cerf.webp", "animals/cervide.webp", "animals/chevrette.webp", "animals/chevreuil.webp", "animals/chevrillard.webp", "animals/colvert.webp", "animals/daim.webp", "animals/daimf.webp", "animals/daimj.webp", "animals/daimm.webp", "animals/faon.webp", "animals/fcoq.webp", "animals/foulque.webp", "animals/fpoule.webp", "animals/lapin.webp", "animals/lievre.webp", "animals/mouflon.webp", "animals/mouflonf.webp", "animals/oie.webp", "animals/perdrix.webp", "animals/pigeon.webp", "animals/renard.webp", "animals/sanglier.webp"
 ];
 self.addEventListener("install", e => {
   e.waitUntil(caches.open(V).then(c => c.addAll(FILES)).then(() => self.skipWaiting()));
